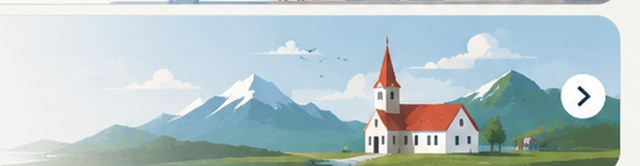
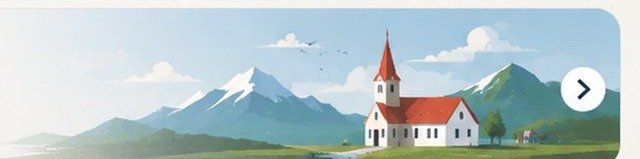
v20: 首頁微調（封面-20%、章節卡橫排、日期徽章改上緣標籤、每日banner裁掉鄰日殘影）

diff --git a/css/style.css b/css/style.css
@@ -262,21 +262,25 @@
       padding: var(--sp-5) var(--sp-6);
     }
     .day-badge {
+      /* v20：從卡片內左下角改成「突出卡片上緣的標籤」——徽章是 .ov-tl-row 的直接子層，
+         絕對定位在卡片上方、微微探出卡片頂邊，像行李吊牌。 */
+      position: absolute; top: -12px; left: 40px; z-index: 4;
       border-radius: var(--radius-sm);
-      padding: 8px 11px;
+      padding: 6px 10px;
       text-align: center;
-      min-width: 62px;
+      min-width: 56px;
       flex-shrink: 0;
+      box-shadow: 0 3px 8px rgba(20,30,35,0.35);
     }
-    .day-card.c0 .day-badge { background: #6a7a8a; color:#fff; }
-    .day-card.c1 .day-badge { background: #3a9a78; color:#fff; }
-    .day-card.c2 .day-badge { background: #4a6fcf; color:#fff; }
-    .day-card.c3 .day-badge { background: #d4783a; color:#fff; }
-    .day-card.c4 .day-badge { background: #8a4abf; color:#fff; }
-    .day-card.c5 .day-badge { background: #b89a20; color:#fff; }
-    .day-card.c6 .day-badge { background: #2a90ba; color:#fff; }
-    .day-card.c7 .day-badge { background: #c05a3a; color:#fff; }
-    .day-card.c8 .day-badge { background: #5a9a3a; color:#fff; }
+    .day-badge.c0 { background: #6a7a8a; color:#fff; }
+    .day-badge.c1 { background: #3a9a78; color:#fff; }
+    .day-badge.c2 { background: #4a6fcf; color:#fff; }
+    .day-badge.c3 { background: #d4783a; color:#fff; }
+    .day-badge.c4 { background: #8a4abf; color:#fff; }
+    .day-badge.c5 { background: #b89a20; color:#fff; }
+    .day-badge.c6 { background: #2a90ba; color:#fff; }
+    .day-badge.c7 { background: #c05a3a; color:#fff; }
+    .day-badge.c8 { background: #5a9a3a; color:#fff; }
     .day-badge .month { font-size: 0.85rem; opacity: 0.85; letter-spacing: 1px; }
     .day-badge .date  { font-size: 1.56rem; font-weight: 700; line-height: 1.1; }
     .day-card-info { flex: 1; min-width: 0; }
@@ -1477,10 +1481,12 @@
     .chapter-card {
       flex: 1; min-width: 0;
       margin: var(--sp-5) 0;
-      padding: var(--sp-6) var(--sp-8);
+      padding: var(--sp-4) var(--sp-6);
       border-radius: var(--radius);
       border: 1px solid #c3d8de;
       background: linear-gradient(135deg, #e8f2f5 0%, var(--bg) 100%);
+      /* v20：橫排書籤式——「Chapter N」小字與國名同一列，高度壓縮 */
+      display: flex; align-items: center; gap: var(--sp-4);
     }
     .ov-tl-row.ov-ch-2 .chapter-card {
       border-color: #e0cdb0;
@@ -1493,7 +1499,7 @@
     }
     .ov-tl-row.ov-ch-2 .chapter-eyebrow { color: var(--accent-warm); }
     .chapter-title {
-      margin-top: var(--sp-1);
+      margin-top: 0;
       font-family: var(--font-display);
       font-size: var(--fs-lg); font-weight: 700;
       color: var(--primary);
@@ -1553,11 +1559,13 @@
              地圖輪播搬到今日卡之後、壓成 21:9 橫幅，角色分開。
        ══════════════════════════════════════════════════════════════ */
 
-    /* Hero 左右全出血、上緣貼齊日期選單列；底部圓角跟今日卡銜接 */
+    /* Hero 左右全出血、上緣貼齊日期選單列；底部圓角跟今日卡銜接。
+       v20：高度縮小約 20%（64vh→51vh、520px→416px），封面不佔滿首屏，
+       今日卡與「完整行程」標題在首屏就能完整露出，不再被底部導覽列遮住。 */
     .trip-hero {
       margin: calc(-1 * var(--sp-6)) calc(-1 * var(--sp-6)) 0;
       border-radius: 0 0 var(--radius-lg) var(--radius-lg);
-      height: min(64vh, 520px);
+      height: min(51vh, 416px);
     }
     /* 緩慢推進鏡頭（Ken Burns），靜態封面也有呼吸感 */
     .trip-hero-bg img { animation: heroDrift 22s ease-in-out infinite alternate; }

diff --git a/js/render-overview.js b/js/render-overview.js
@@ -127,13 +127,14 @@ function buildTripHero() {
   '</section>';
 }
 
-// 章節卡（v15）：國家分隔從一行小字升級成「Chapter N」章節卡，營造翻頁進入下一段旅程的感覺。
+// 章節卡（v20）：改為單列橫排——「Chapter N」小字在左、國名在右，整卡高度壓縮，
+// 視覺上像書籤分隔帶，不再是佔兩行高的大卡片。
 // 章節編號依 sectionLabel 出現順序自動累加，未來新旅程的資料不需要額外設定。
 function buildChapterCardHtml(chapterIdx, label) {
   return '<div class="ov-tl-row ov-tl-chapter ov-ch-' + chapterIdx + '">' +
     '<div class="ov-tl-node"><span class="ov-tl-diamond"></span></div>' +
-    '<div class="chapter-card"><div class="chapter-eyebrow">Chapter ' + chapterIdx + '</div>' +
-    '<div class="chapter-title">' + label + '</div></div></div>';
+    '<div class="chapter-card"><span class="chapter-eyebrow">Chapter ' + chapterIdx + '</span>' +
+    '<span class="chapter-title">' + label + '</span></div></div>';
 }
 
 // 總覽「完整行程」時間軸（v15）：9 天卡片從獨立堆疊改成一條垂直時間軸串起來。
@@ -165,8 +166,9 @@ function renderOverview() {
       '<div class="ov-tl-node"><span class="ov-tl-dot"></span></div>' +
       '<div class="day-card ' + (d.color || '') + '" onclick="showDay(\'' + d.id + '\')">' +
       '<div class="day-card-bg">' + bannerHtml + '</div><div class="day-card-scrim"></div>' +
-      '<div class="day-card-content"><div class="day-badge"><div class="month">' + d.month + '</div><div class="date">' + d.dayOfMonth + '</div></div>' +
-      '<div class="day-card-info"><h3>' + d.title + '</h3>' + (d.summary ? '<p>' + d.summary + '</p>' : '') + '</div></div></div></div>';
+      '<div class="day-card-content">' +
+      '<div class="day-card-info"><h3>' + d.title + '</h3>' + (d.summary ? '<p>' + d.summary + '</p>' : '') + '</div></div></div>' +
+      '<div class="day-badge ' + (d.color || '') + '"><div class="month">' + d.month + '</div><div class="date">' + d.dayOfMonth + '</div></div></div>';
   });
   html += '</div>';
   var timelineEl = document.getElementById('overviewTimeline');

diff --git a/sw.js b/sw.js
@@ -1,6 +1,6 @@
 const CACHE_PREFIX = 'trip-' + self.registration.scope.replace(/[^a-z0-9]+/gi, '-').toLowerCase();
-const SHELL_CACHE = CACHE_PREFIX + 'shell-2026-07-25-aurora-v2';
-const DAY_CACHE = CACHE_PREFIX + 'current-days-2026-07-25-aurora-v2';
+const SHELL_CACHE = CACHE_PREFIX + 'shell-2026-07-25-home-v3';
+const DAY_CACHE = CACHE_PREFIX + 'current-days-2026-07-25-home-v3';
 
 // 僅預先快取程式、資料與 App 圖示；不預載照片大圖、所有路線圖或 PDF。
 const SHELL_ASSETS = [
